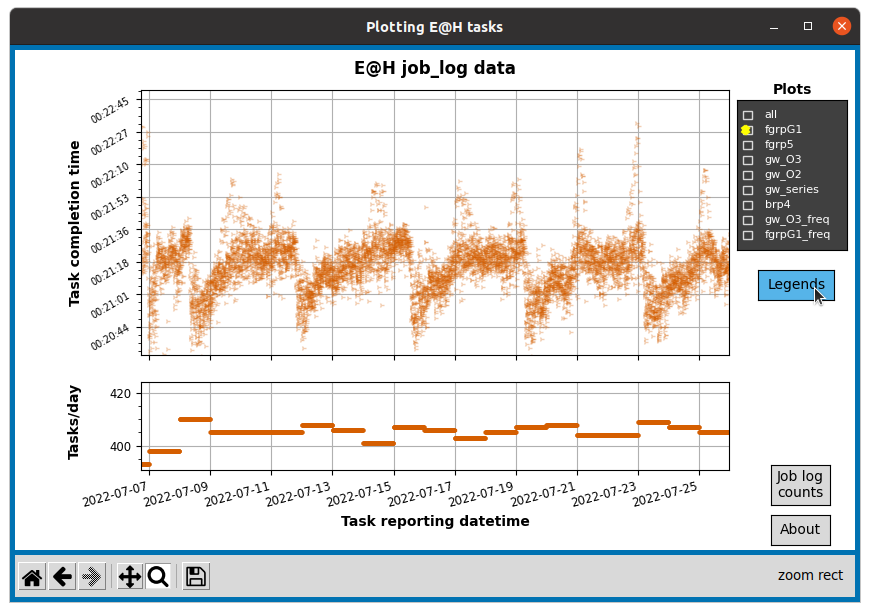
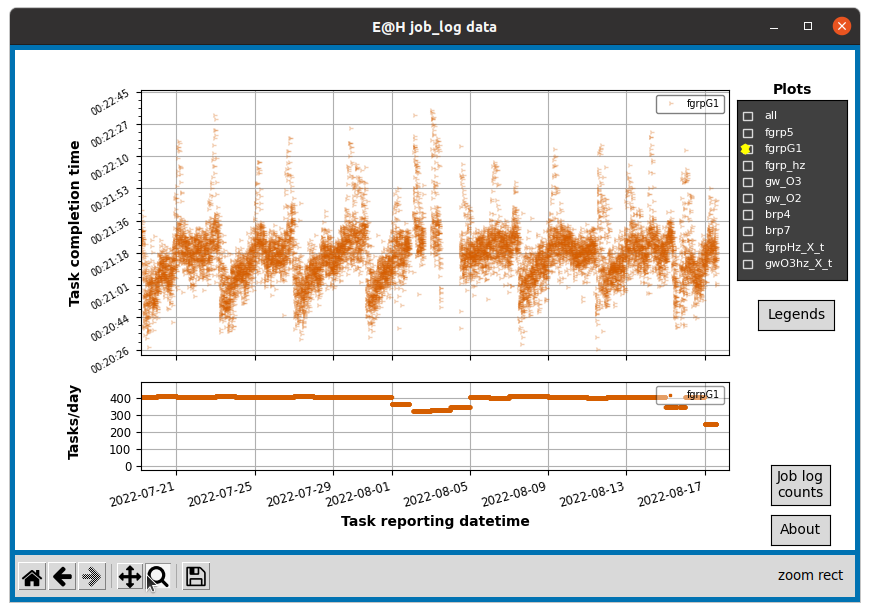
Ver 0.1.20: Update README.md

diff --git a/README.md b/README.md
@@ -70,24 +70,25 @@ Navigation bar icons images are not showing up in MacOS. They are functional, bu
 ![plot all sample data](images/test_start.png)
 
 Opening window using the sample data option, --test.
-Plots all tasks in the job log for task completion time and daily count vs. reporting date.
+Plots of task completion time and daily count vs. BOINC reporting date.
+Using the navigation bar zoom tool, datetimes can scale down to month-date hour increments.
 
-![plot_fgrp_freq](images/fgrp_freq.png)
+![plot_multiple_projects](images/GR_and_GW_plots.png)
 
-Plot of only FGRPG1 gamma-ray tasks.
+Overlaid plots of FGRPG1 gamma-ray and O2 and O3 gravitational wave tasks.
 
 
 ![plot_fgrp_zoom](images/fgrpG1_zoom.png)
 
 Zoom-in detail of FGRPG1 tasks times and counts.
 
-![plot_hz_vs_time](images/GRfreq_x_time.png)
+![plot_hz_vs_time](images/fgrp_all_Hz.png)
 
-FGRPG1 gamma-ray tasks' frequency (Hz) vs. datetime.
+Frequency (Hz) vs. datetime for all FGRP tasks
 
-![plot hz_range](images/slider_fgrpG1.png)
+![plot hz_range](images/slider_gwO3.png)
 
-FGRPG1 gamma-ray tasks' Hz vs. task completion time, with Hz range selection slider.
+GWO3 tasks' Hz vs. task completion time, with Hz range selection slider.
 The Hz range slider can be used as an alternative way to zoom in on frequency ranges. The slider and Navigation bar tools don't always work well together, so it is best to generally use one or the other.
 
 ![popup-task-info](images/task_info.png)
